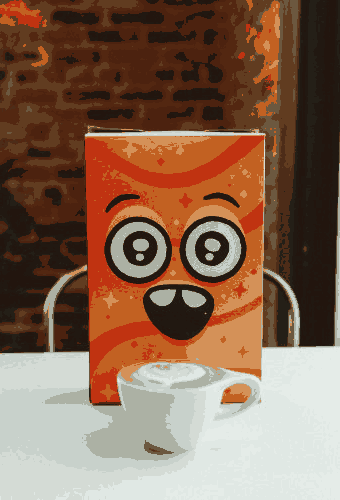
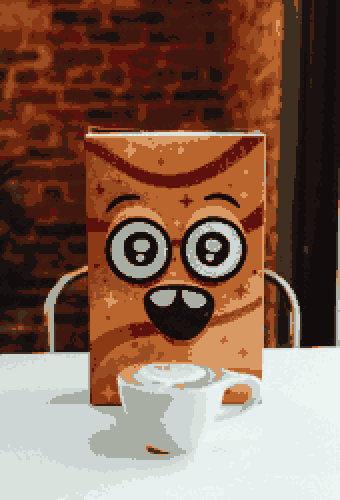
Update first example to be more pixel-y

diff --git a/README.md b/README.md
@@ -4,7 +4,7 @@ Command-line utility that pixelizes images to create pixel art. Inspired by [pyx
 
 ## Examples
 
-- `--colorLimit 16`
+- `--colorLimit 16 --scale 0.5 --afterScale 2`
 
   - <img src="docs/melody.jpg" alt="Cartoon face on box in front of full coffee cup"> <img src="docs/melody-d_none-c_16.png" alt="Cartoon face in limited 16-colour palette">
   - [Photo source](https://unsplash.com/photos/a-cup-of-coffee-sitting-on-top-of-a-white-table-McEh5jAOD3w)
